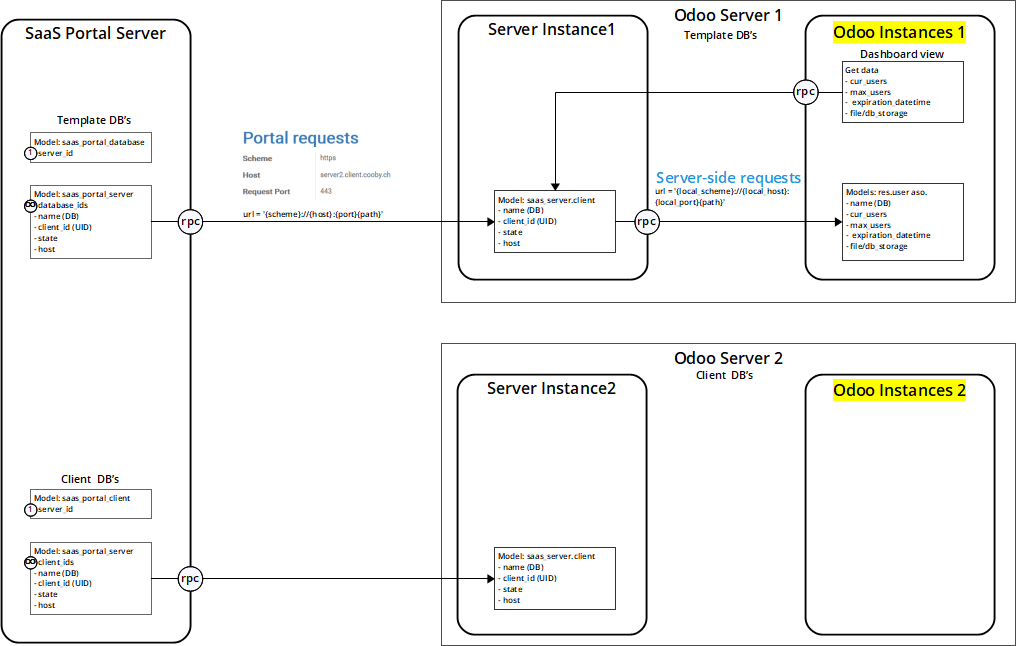
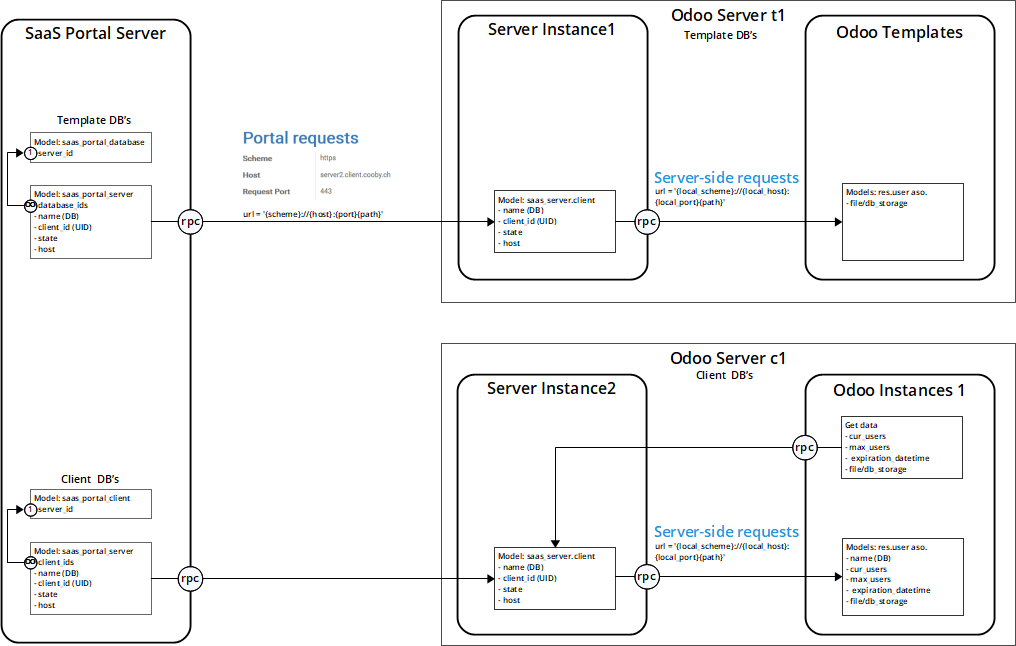
[IMP] SaaS docs reference for V2

diff --git a/docs/reference/development.rst b/docs/reference/development.rst
@@ -1,5 +1,6 @@
-Development
-===========
+Development V2
+==============
+This chapter shows some information about the enhanced version v2 of SaaS tool.
 
 Structure of SaaS tools Server system:
 --------------------------------------
@@ -8,23 +9,21 @@ Structure of SaaS tools Server system:
 * SaaS Servers - technical Odoo databases, running on same server instance or separate, to control client databases. SaaS server create, edit, delete databases. Each SaaS Server can be installed on a separate machine (e.g. VPS)
 * SaaS Clients - client database to be used by customers. Each SaaS Client is attached to a SaaS Server.
 
-Structure of SaaS models:
--------------------------
-
-* **saas_portal.server_branch** - bundles the server into an abstraction of server ressources used by the plan
-* **saas_portal.server** - represents the server databases, eg containers that are running a server db
-* **saas_portal.server_parameter** - additional parameters which can be a added to the server model (only of informative character)
-* **saas_portal.database** - represents the template databases, gets inherited by saas_portal.client
-* **saas_portal.plan** - represents the subscription plan
-* **saas_portal.client** - represents the client database
-
-
-
 Portal/ Server / Client instance relations
 __________________________________________
 .. image:: ../images/db-server_relations.png
 
 
+
+Structure of SaaS models:
+-------------------------
+
+* **saas_portal.server_branch** - bundles the server into an abstraction of server ressources used by the plans
+* **saas_portal.server** - represents the server databases, eg containers that are running a server db
+* **saas_portal.server_parameter** - additional parameters which can be a added to the server model (only of informative character)
+* **saas_portal.database** - represents the template databases, gets inherited by saas_portal.client
+* **saas_portal.plan** - represents the subscription plan
+* **saas_portal.client** - represents the client database
 
 Entity Relations diagram simplified
 ___________________________________
